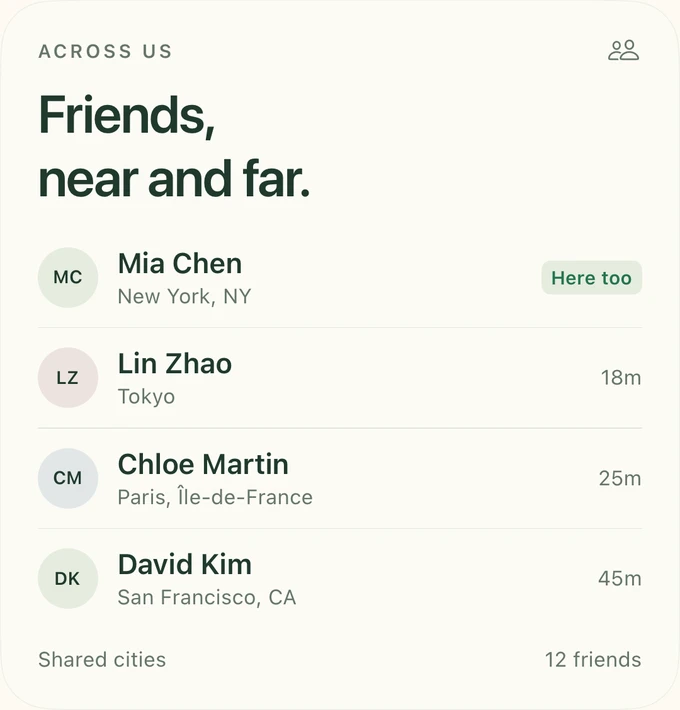
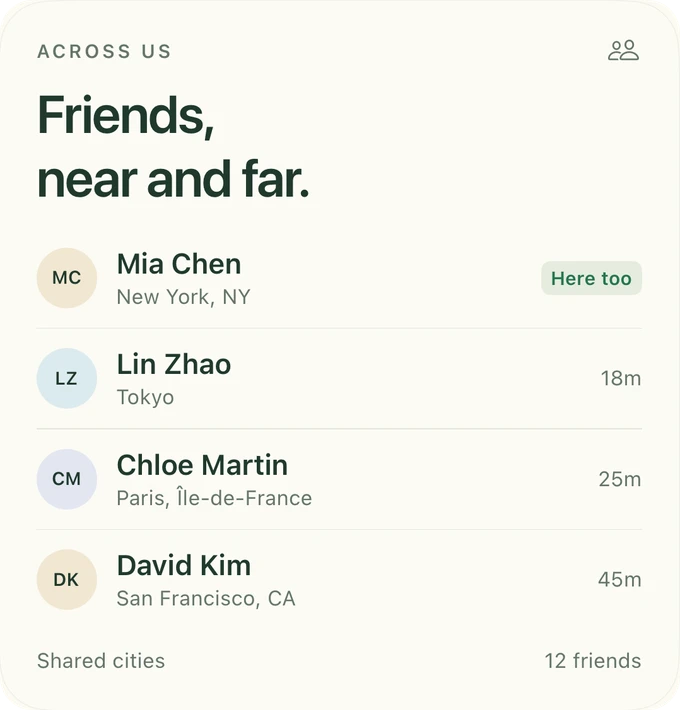
Replace website app captures with the 1.0.8 interface
Friends, same city, the Together soon timeline, friends' travel plans
and the widgets are recaptured from ui/1.0.8-combined with demo data on
an iPhone 18 Pro Max simulator. Same city now shows the Here with you
panel for three friends. The feature grid is rearranged for the new
image shapes.

diff --git a/site/index.html b/site/index.html
@@ -32,17 +32,15 @@
 @keyframes drift{to{transform:translateX(-50%)}}
 .intro{padding-block:96px 48px}
 .intro h2{max-width:960px}
-.bento{display:grid;grid-template-columns:repeat(3,1fr);grid-auto-rows:minmax(280px,auto);gap:16px;padding-bottom:120px}
+.bento{display:grid;grid-auto-flow:dense;grid-template-columns:repeat(3,1fr);grid-auto-rows:minmax(280px,auto);gap:16px;padding-bottom:120px}
 .card{background:var(--panel);border-radius:20px;padding:28px 28px 0;display:flex;flex-direction:column;overflow:hidden;min-width:0}
 .card h3{font-size:22px;line-height:1.2;font-weight:450;letter-spacing:-.02em;max-width:420px}
 .card h3 span{color:var(--gray)}
 .card-art{margin-top:28px;flex:1;display:flex;align-items:flex-end;justify-content:center}
 .card-art img{width:100%;max-width:400px;border-radius:18px 18px 0 0;box-shadow:0 1px 0 var(--line),0 24px 48px -24px rgba(14,26,19,.25)}
 .card-wide{grid-column:span 2}
-.card-wide .card-art img{max-width:340px}
-.card-tall{grid-row:span 2}
-.card-tall .card-art{max-height:620px;overflow:hidden;align-items:flex-start}
-.card-short .card-art{max-height:300px;overflow:hidden;align-items:flex-start}
+.card-wide .card-art img{max-width:600px}
+.card-art img.bare{border-radius:0;box-shadow:none;margin-bottom:28px;filter:drop-shadow(0 18px 30px rgba(14,26,19,.14))}
 .trips{background:var(--ink);color:#fff;padding-block:120px}
 .trips h2 span{color:#8B968F}
 .trips-grid{display:grid;grid-template-columns:1.1fr .9fr;gap:64px;margin-top:64px;align-items:start}
@@ -72,8 +70,6 @@ details p{padding:0 40px 24px 0;color:var(--gray);font-size:16px;line-height:1.6
  .hero-phone{grid-column:2;grid-row:1/span 2;height:520px}
  .bento{grid-template-columns:1fr 1fr}
  .card-wide{grid-column:span 2}
- .card-tall{grid-row:span 1}
- .card-tall .card-art{max-height:420px}
  .trips-grid,.faq-grid{grid-template-columns:1fr;gap:40px}
 }
 @media(max-width:700px){
@@ -124,10 +120,10 @@ details p{padding:0 40px 24px 0;color:var(--gray);font-size:16px;line-height:1.6
 <section id="features" class="wrap" aria-labelledby="features-title">
  <div class="intro"><h2 class="heading" id="features-title">Friends move. <span>Across Us keeps their cities, plans and flights in one place, so a chance to meet doesn’t slip past.</span></h2></div>
  <div class="bento">
-  <article class="card card-wide"><h3>Same city, same time. <span>See when a friend’s shared city matches yours, and choose who can trigger the alert.</span></h3><div class="card-art"><img src="assets/product/same-city.webp" width="680" height="742" alt="An earlier same-city design showing you and Mia in New York." loading="lazy"></div></article>
-  <article class="card card-tall"><h3>Their next stop. <span>Friends share a city and dates, so you know where they’re headed.</span></h3><div class="card-art"><img src="assets/product/plans.webp" width="720" height="1192" alt="Friend plans lists Lin’s upcoming Tokyo dates and Chloe’s Paris dates." loading="lazy"></div></article>
-  <article class="card card-short"><h3>Plans that line up. <span>Find the days you’ll both be there.</span></h3><div class="card-art"><img src="assets/product/overlap.webp" width="720" height="984" alt="Together soon shows four days that you and Lin will both be in Tokyo." loading="lazy"></div></article>
-  <article class="card card-short"><h3>On your Home Screen. <span>Widgets keep a few familiar faces close.</span></h3><div class="card-art"><img src="assets/product/friends-light.webp" width="680" height="710" alt="The Friends widget shows four friends and their shared cities." loading="lazy"></div></article>
+  <article class="card"><h3>Same city, same time. <span>See who’s in town with you, and choose who can trigger the alert.</span></h3><div class="card-art"><img src="assets/product/same-city.webp" width="680" height="545" alt="Here with you: New York, with Mia, Lin and Chloe and when each last shared their city." loading="lazy"></div></article>
+  <article class="card card-wide"><h3>Plans that line up. <span>When your plans overlap, see the days you’ll both be there.</span></h3><div class="card-art"><img src="assets/product/overlap.webp" width="900" height="656" alt="Tokyo with Lin: four days together, October 19 to 22, on a week timeline." loading="lazy"></div></article>
+  <article class="card card-wide"><h3>Their next stop. <span>Friends share a city and dates, so you know where they’re headed.</span></h3><div class="card-art"><img src="assets/product/plans.webp" width="900" height="784" alt="Friends’ travel plans lists Lin in Tokyo and Chloe in Paris, October 16 to 23." loading="lazy"></div></article>
+  <article class="card"><h3>On your Home Screen. <span>Widgets keep a few familiar faces close.</span></h3><div class="card-art"><img class="bare" src="assets/product/friends-light.webp" width="680" height="710" alt="The Friends widget shows four friends and their shared cities." loading="lazy"></div></article>
  </div>
 </section>
 <section id="trips" class="trips" aria-labelledby="trips-title">
